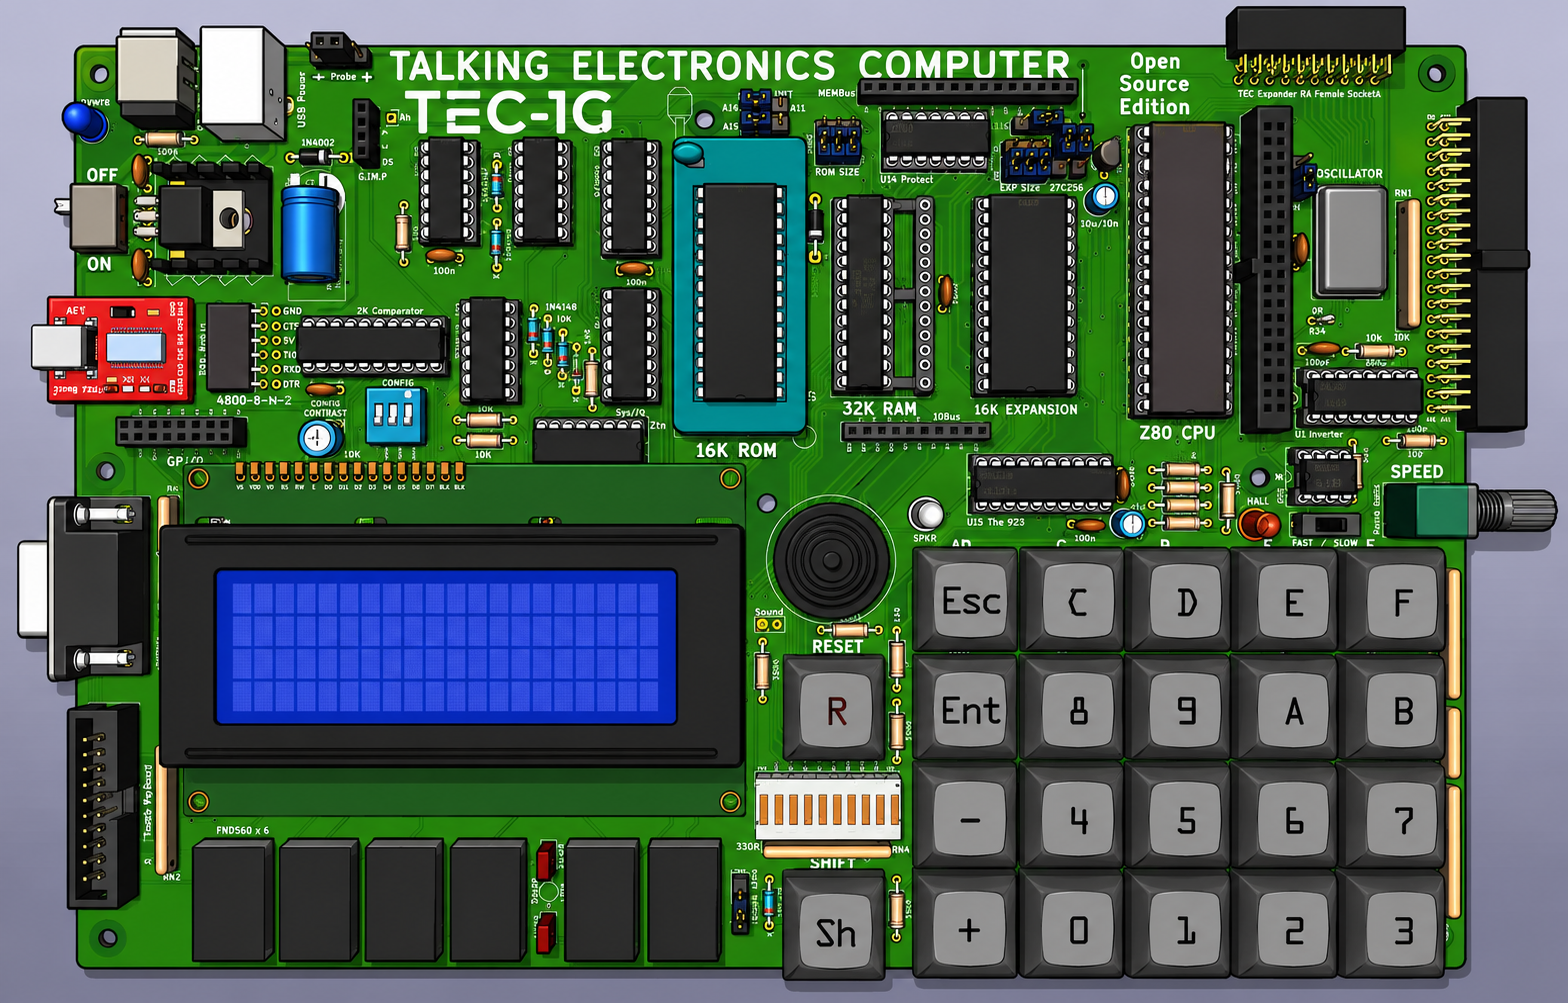
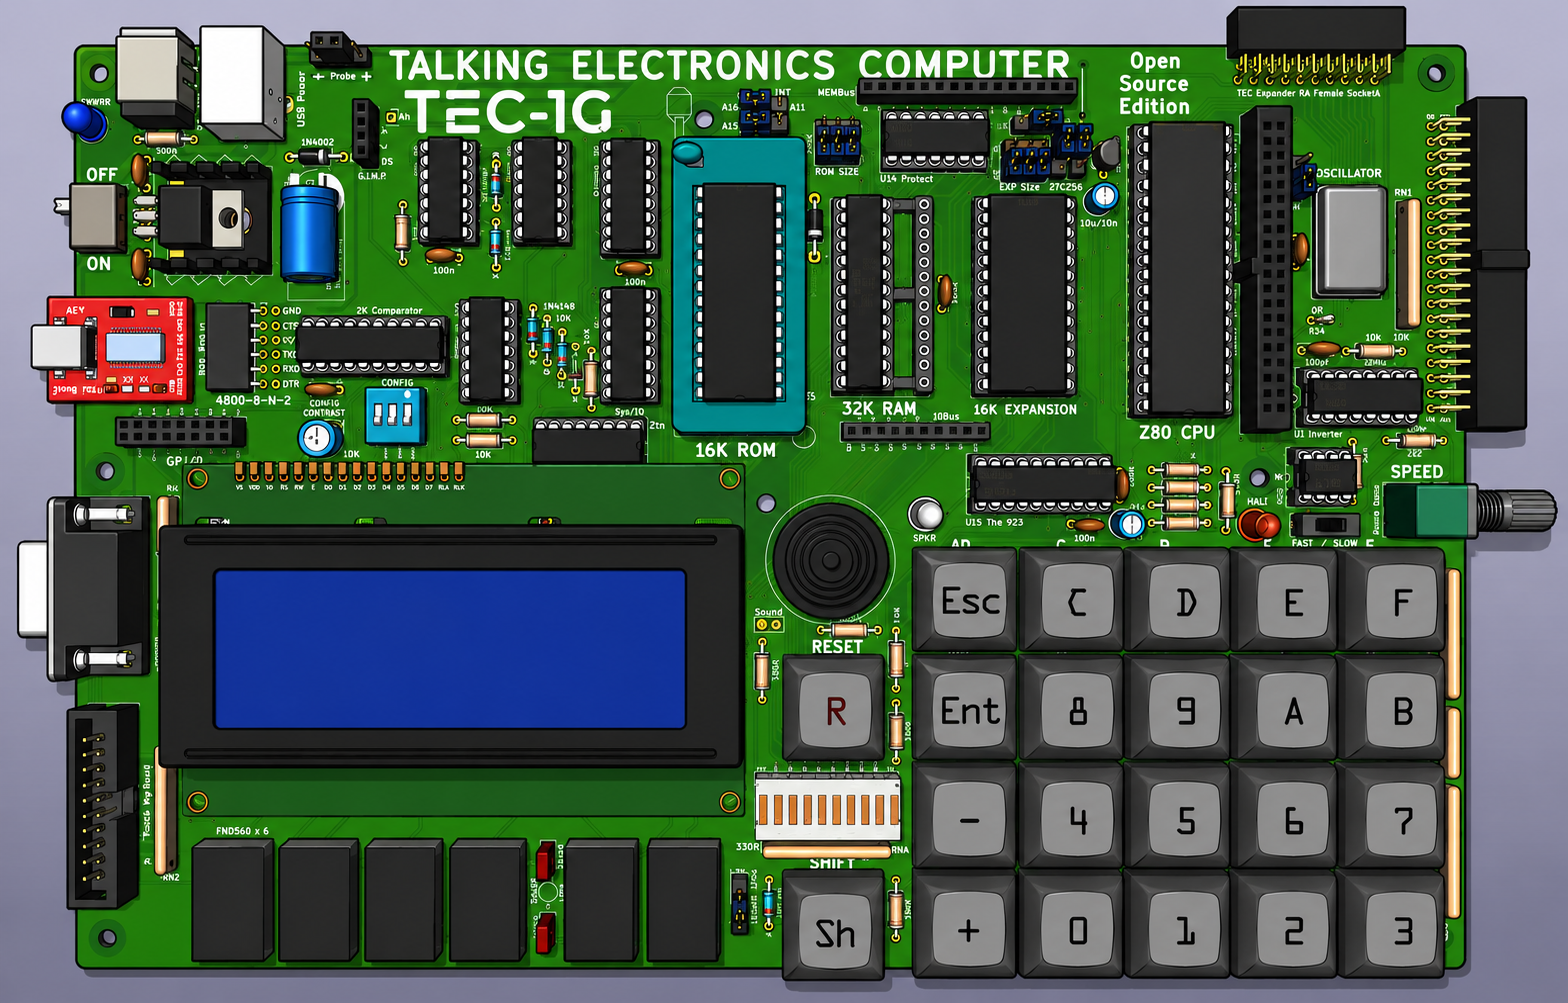
hd44780: better looking lcd rendering.

diff --git a/device/hd44780/lcd.go b/device/hd44780/lcd.go
@@ -169,20 +169,19 @@ type Config struct {
 	Mode           DisplayMode
 	XBase, YBase   float32 // xy position
 	XScale, YScale float32 // xy scale
-	XGap, YGap     float32 // gaps between digits
 }
 
 type LCD struct {
-	config     *Config
-	rows, cols int              // displays rows and columns
-	font       [2]*ebiten.Image // font images
-	rowAddr    []byte           // start of the row in ddram
-
-	ddram         [128]byte // display data ram
-	cgram         []byte    // character generator ram
-	cgrom         []byte    // character generator rom
-	ddAddr        byte      // ddram address
-	cgAddr        byte      // cgram address
+	config        *Config
+	rows, cols    int              // displays rows and columns
+	font          [2]*ebiten.Image // font images
+	img           *ebiten.Image    // unscaled lcd image
+	rowAddr       []byte           // start of the row in ddram
+	ddram         [128]byte        // display data ram
+	cgram         []byte           // character generator ram
+	cgrom         []byte           // character generator rom
+	ddAddr        byte             // ddram address
+	cgAddr        byte             // cgram address
 	scrollOffset  int
 	ramMode       bool // which ram are we working with?
 	cursorBlink   bool // is the cursor blinking?
@@ -205,6 +204,11 @@ func New(k *Config) (*LCD, error) {
 	// pre-load font images
 	lcd.font[0] = buildFontImage(fontA00)
 	lcd.font[1] = buildFontImage(fontA02)
+
+	// build an unscaled lcd image
+	width := lcd.cols*glyphWidth + (lcd.cols-1)*xGap
+	height := lcd.rows*glyphHeight + (lcd.rows-1)*yGap
+	lcd.img = ebiten.NewImage(width, height)
 
 	// work out the row addresses
 	lcd.rowAddr = make([]byte, lcd.rows)
@@ -339,28 +343,40 @@ func (lcd *LCD) WriteData(val byte) {
 
 //-----------------------------------------------------------------------------
 
+// intercharacter gaps
+const xGap = 11
+const yGap = 11
+
+// character to character pitch
+const pitchX = glyphWidth + xGap
+const pitchY = glyphHeight + yGap
+
 // Draw the display (called from ebiten draw function)
 func (lcd *LCD) Draw(screen *ebiten.Image) {
-	lc := lcd.config
-	pitchX := (lc.XScale * glyphWidth) + lc.XGap
-	pitchY := (lc.YScale * glyphHeight) + lc.YGap
+
+	// create an unscaled lcd image
+	lcd.img.Clear()
 	for row := 0; row < lcd.rows; row++ {
 		for col := 0; col < lcd.cols; col++ {
 			// where are we rendering the glyph?
-			x := lc.XBase + (float32(col) * pitchX)
-			y := lc.YBase + (float32(row) * pitchY)
+			x := col * pitchX
+			y := row * pitchY
 			// get the character
 			code := lcd.ddram[lcd.rowAddr[row]+byte(col)]
 			glyph := getGlyph(lcd.font[0], code)
-
 			op := &ebiten.DrawImageOptions{}
-			op.GeoM.Scale(float64(lc.XScale), float64(lc.YScale))
 			op.GeoM.Translate(float64(x), float64(y))
-			op.Filter = ebiten.FilterLinear
-
-			screen.DrawImage(glyph, op)
+			lcd.img.DrawImage(glyph, op)
 		}
 	}
+
+	// render the lcd image to the screen (with scaling)
+	lc := lcd.config
+	op := &ebiten.DrawImageOptions{}
+	op.GeoM.Scale(float64(lc.XScale), float64(lc.YScale))
+	op.GeoM.Translate(float64(lc.XBase), float64(lc.YBase))
+	op.Filter = ebiten.FilterLinear
+	screen.DrawImage(lcd.img, op)
 }
 
 // Update the display logic (called from ebiten update)

diff --git a/cmd/tec1g/main.go b/cmd/tec1g/main.go
@@ -96,10 +96,8 @@ func newSystem() (*system, error) {
 		Mode:   hd44780.Mode20x4,
 		XBase:  233,
 		YBase:  584,
-		XScale: 0.33,
-		YScale: 0.33,
-		XGap:   1.9,
-		YGap:   1.9,
+		XScale: 0.31,
+		YScale: 0.31,
 	}
 	lcd, err := hd44780.New(&kLCD)
 	if err != nil {